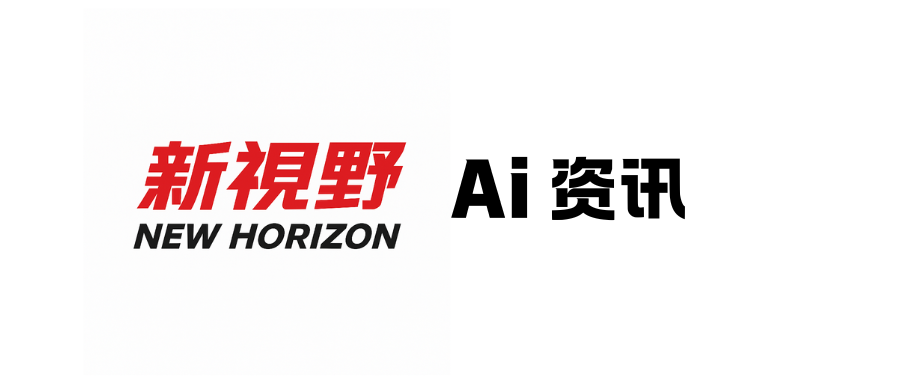
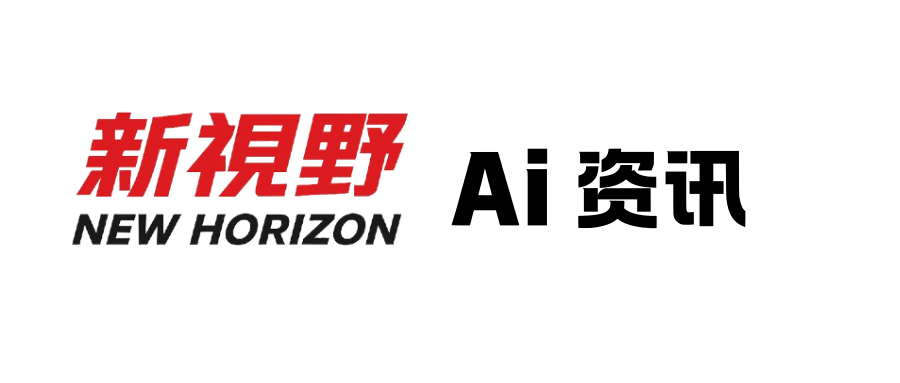
[update] project bottom view

Changed region(s): [[0.0622, 0.2872, 0.4667, 0.6606], [0.4978, 0.3734, 0.84, 0.6031]]

diff --git a/main.py b/main.py
@@ -62,9 +62,9 @@ def generate_styled_content(news_items, report_date, topic_name):
     生成带品牌化样式的 HTML 文章主体内容片段 (不包含 <html>, <body>)。
     """
     TOPIC_BANNERS = {
-        "Ai资讯": "",
-        "军事新闻": "",
-        "汽车新闻": "",
+        "Ai资讯": "https://github.com/amliubo/New-Vision/blob/main/img/1.png?raw=true",
+        "军事新闻": "https://github.com/amliubo/New-Vision/blob/main/img/2.png?raw=true",
+        "汽车新闻": "https://github.com/amliubo/New-Vision/blob/main/img/3.png?raw=true",
     }
     banner_url = TOPIC_BANNERS.get(topic_name)
     lines = []
@@ -103,10 +103,11 @@ def generate_styled_content(news_items, report_date, topic_name):
             """)
 
     lines.append(f"""
-        <img src="{QR_CODE_URL}" alt="二维码" 
-                style="width:180px;height:180px; margin:0 auto 0 auto; border-radius:6px; display:block;">
+        <div style='text-align:center; margin:6px 0 12px 0;'>
+            <img src="https://github.com/amliubo/New-Vision/blob/main/img/4.png?raw=true"
+                style="width:88%; max-width:390px; border-radius:10px; display:block; margin:0 auto;">
+        </div>
     """)
-
     return "".join(lines)
 
 def generate_simple_summary_card(news_items, report_title):
